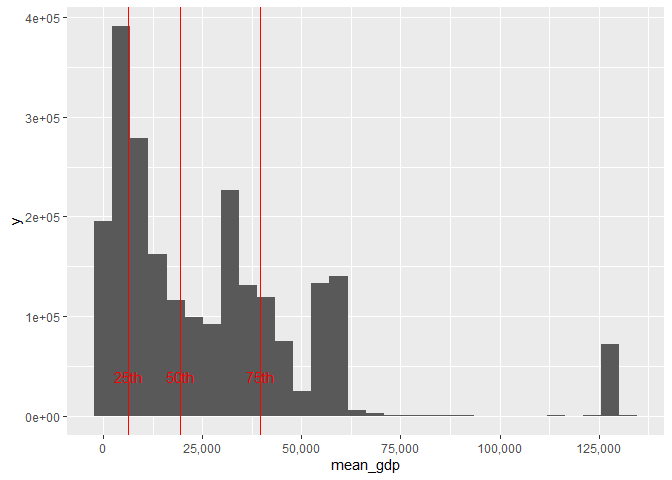
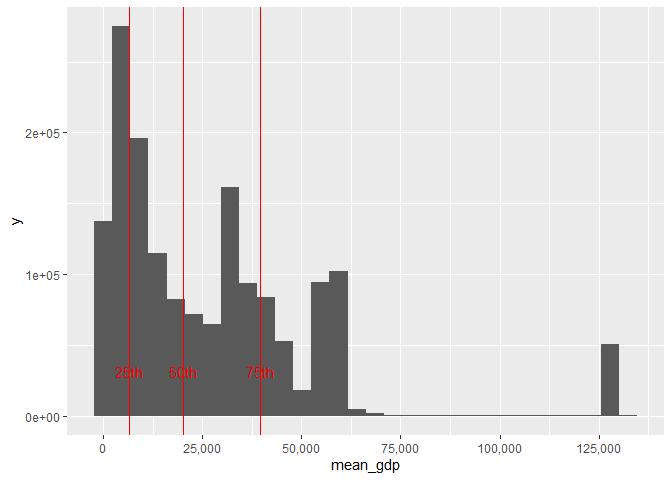
clean income data

diff --git a/MSc-Thesis-Econ/code/income-data.md b/MSc-Thesis-Econ/code/income-data.md
@@ -83,11 +83,6 @@ gdp_avg <- as.data.frame(r_gdp_resampled, xy = TRUE, na.rm = TRUE)
 names(gdp_avg)[3] <- "mean_gdp"
 ```
 
-Let’s see the distribution of the average GDP per capita.
-
-Only few outliers (50k observations) at avg_gdp \> \$125k. \>\> SIBERIA
-REMOVED
-
 ``` r
 library(ggplot2)
 ```
@@ -95,9 +90,22 @@ library(ggplot2)
     ## Warning: package 'ggplot2' was built under R version 4.4.3
 
 ``` r
-# Remove outliers
-gdp_avg <- gdp_avg[gdp_avg$mean_gdp < 125000, ]
+ggplot(gdp_avg, aes(x=x, y=y, fill=mean_gdp)) +
+  geom_raster() +
+  coord_fixed()
+```
 
+    ## Warning: Raster pixels are placed at uneven horizontal intervals and will be shifted
+    ## ℹ Consider using `geom_tile()` instead.
+
+![](income-data_files/figure-gfm/unnamed-chunk-3-1.png)<!-- -->
+
+Let’s see the distribution of the average GDP per capita.
+
+Only few outliers (50k observations) at avg_gdp \> \$125k. \>\> SIBERIA
+REMOVED
+
+``` r
 # Quartiles
 p <- quantile(gdp_avg$mean_gdp, probs = c(0.25, 0.5, 0.75))
 
@@ -115,12 +123,15 @@ ggplot(gdp_avg, aes(mean_gdp)) +
 
     ## `stat_bin()` using `bins = 30`. Pick better value with `binwidth`.
 
-![](income-data_files/figure-gfm/unnamed-chunk-3-1.png)<!-- -->
+![](income-data_files/figure-gfm/unnamed-chunk-4-1.png)<!-- -->
 
 Let’s split observations in quartiles. In this way, we can later group
 Net-Migration and Climate data in GDP clusters.
 
 ``` r
+# Remove outliers
+gdp_avg <- gdp_avg[gdp_avg$mean_gdp < 120000, ]
+
 # Cut into quartiles
 gdp_avg$gdp_quartile <- cut(
   gdp_avg$mean_gdp,
@@ -142,7 +153,7 @@ ggplot(gdp_avg, aes(x=x, y=y, fill=mean_gdp)) +
     ## Warning: Raster pixels are placed at uneven horizontal intervals and will be shifted
     ## ℹ Consider using `geom_tile()` instead.
 
-![](income-data_files/figure-gfm/unnamed-chunk-5-1.png)<!-- -->
+![](income-data_files/figure-gfm/unnamed-chunk-6-1.png)<!-- -->
 
 Let’s plot quartiles on the map. It’s visible how using cell-level data,
 instead of country-level, we have within-country variation (and not
@@ -157,7 +168,7 @@ ggplot(gdp_avg, aes(x=x, y=y, fill=gdp_quartile)) +
     ## Warning: Raster pixels are placed at uneven horizontal intervals and will be shifted
     ## ℹ Consider using `geom_tile()` instead.
 
-![](income-data_files/figure-gfm/unnamed-chunk-6-1.png)<!-- -->
+![](income-data_files/figure-gfm/unnamed-chunk-7-1.png)<!-- -->
 
 Some Summary Stats
 
@@ -166,7 +177,7 @@ summary(gdp_avg$mean_gdp)
 ```
 
     ##     Min.  1st Qu.   Median     Mean  3rd Qu.     Max. 
-    ##    449.2   6264.9  18203.1  23557.0  38083.3 123312.4
+    ##    449.2   6264.9  18203.1  23546.3  38083.3 119918.2
 
 Number of cells: 1,5 mln
 
@@ -178,7 +189,7 @@ Number of cells: 1,5 mln
 length(gdp_avg$mean_gdp)
 ```
 
-    ## [1] 1556394
+    ## [1] 1556226
 
 Number of cell in each income group.
 
@@ -188,7 +199,7 @@ table(gdp_avg$gdp_quartile)
 
     ## 
     ##     Q1     Q2     Q3     Q4 
-    ## 396259 382180 401914 376041
+    ## 402074 401643 405836 346673
 
 Info ORIGINAL raster
 
@@ -242,7 +253,7 @@ ggplot() +
   coord_fixed()
 ```
 
-![](income-data_files/figure-gfm/unnamed-chunk-14-1.png)<!-- -->
+![](income-data_files/figure-gfm/unnamed-chunk-15-1.png)<!-- -->
 
 Let’s see the VALUEs.
 
@@ -266,7 +277,7 @@ ggplot() +
   coord_fixed()
 ```
 
-![](income-data_files/figure-gfm/unnamed-chunk-15-1.png)<!-- -->
+![](income-data_files/figure-gfm/unnamed-chunk-16-1.png)<!-- -->
 
 ### Assign Country Code
 
@@ -294,22 +305,22 @@ library(FNN)
 # Get world countries
 world <- ne_countries(scale = "medium", returnclass = "sf")
 
-# Method 1: Direct spatial join (as before)
+# Direct spatial join
 coords_sf <- st_as_sf(
   gdp_avg[, c("x", "y")], 
   coords = c("x", "y"), 
   crs = 4326
 )
 
-country_match <- st_join(coords_sf, world[c("iso_a3")])
+country_match <- st_join(coords_sf, world[c("iso_a3")], join = st_intersects)
 gdp_avg$country_code <- country_match$iso_a3
 
-# Method 2: For NA values (border/water cells), assign nearest country
+# For NA values (border/water cells), assign nearest country
 na_mask <- is.na(gdp_avg$country_code)
 message("Points without country assignment: ", sum(na_mask))
 ```
 
-    ## Points without country assignment: 68540
+    ## Points without country assignment: 68504
 
 ``` r
 if(sum(na_mask) > 0) {
@@ -333,5 +344,5 @@ if(sum(na_mask) > 0) {
 Let’s export our final dataset in csv.
 
 ``` r
-write.csv(gdp_avg, "../data/income-gdp-quarter.csv", row.names = FALSE)
+write.csv(gdp_avg, "income-gdp-quarter.csv", row.names = FALSE)
 ```
